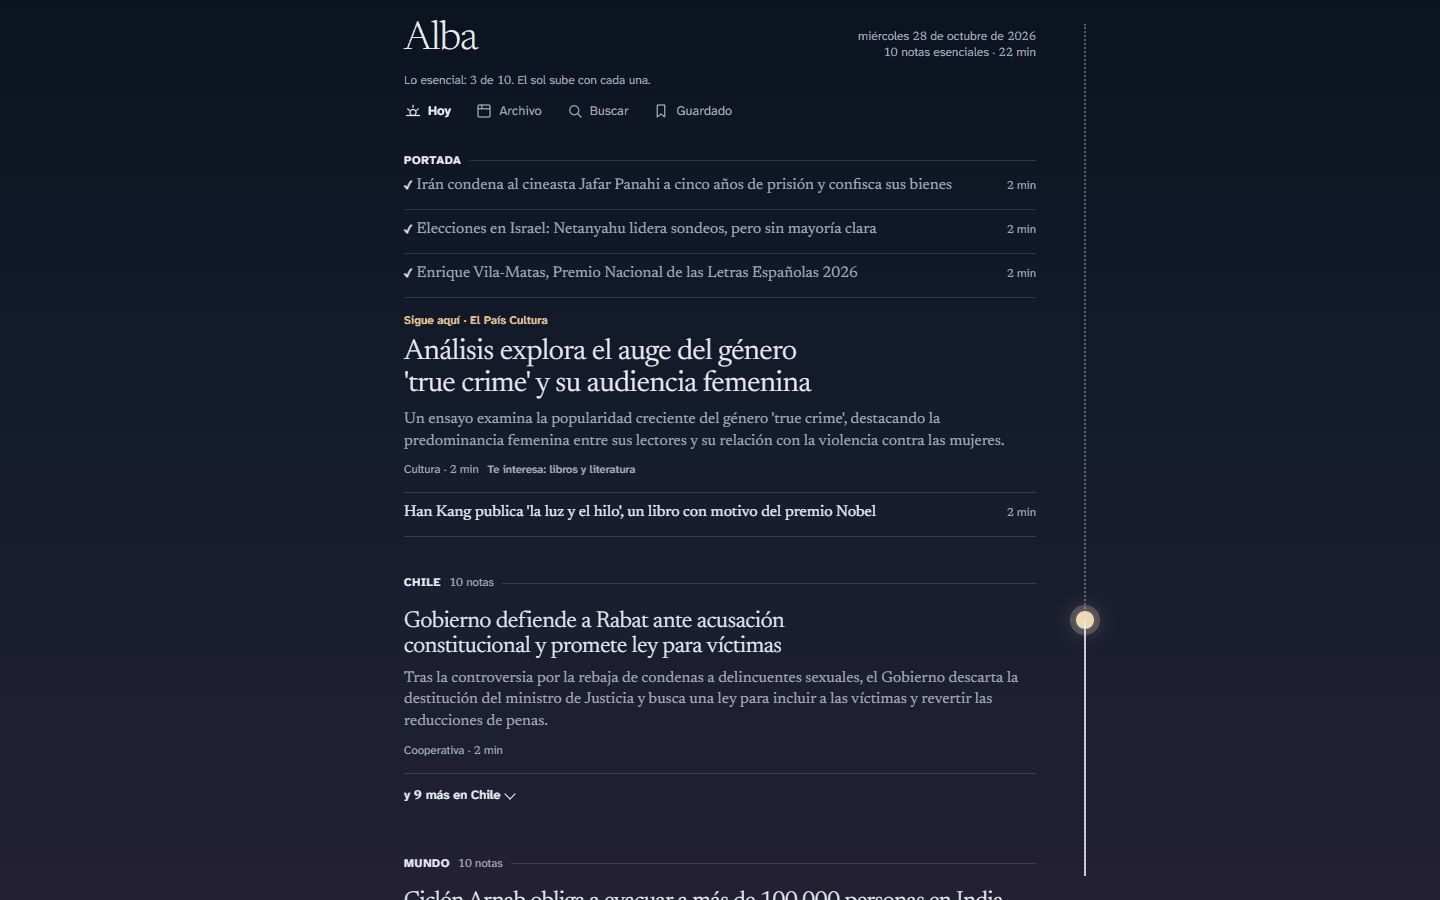
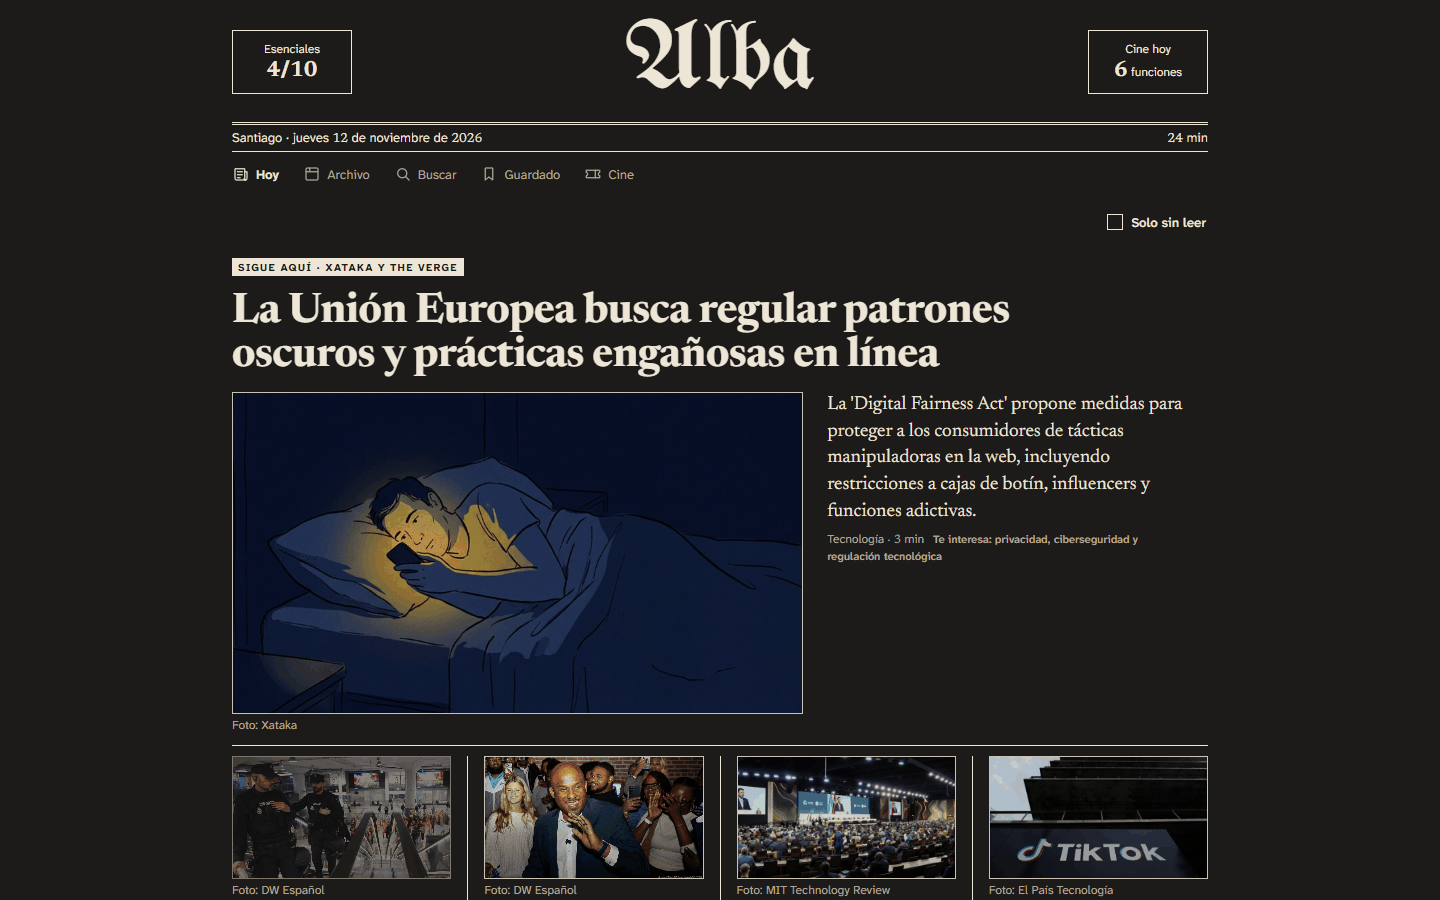
docs: the README shows the printed Diario, with the outlets' photos
New screenshots, banner and tour of the 12 November edition. The text
drops the sun of the old design, adds the paper look and the photos,
lists every outbound request (photos, cinemas), credits the nameplate's
font, and the roadmap loses the two items that shipped.

diff --git a/README.es.md b/README.es.md
@@ -36,12 +36,13 @@ Un diario personal. Defines tus fuentes RSS por sección; cada mañana Newspaper
 
 Los sitios de noticias y los lectores de feeds te entregan el mismo acontecimiento cinco veces, de cinco medios, en cinco pestañas. Newspaper los lee todos y escribe **una nota por acontecimiento**, con un breve «dónde difieren» cuando los medios no coinciden, para que la edición se pueda terminar: unas diez notas esenciales y veinticinco minutos, y después el resto si quieres.
 
-Todo corre en tu propio computador. Los modelos de lenguaje corren en [Ollama](https://ollama.com); no hay cuentas, ni servicios en la nube, ni seguimiento. Las únicas salidas a internet son tus feeds, los artículos originales y (si activas el aviso diario) el servicio de push del propio navegador, cifrado de extremo a extremo, o tu tema de ntfy, que ve el texto del aviso.
+Todo corre en tu propio computador. Los modelos de lenguaje corren en [Ollama](https://ollama.com); no hay cuentas, ni servicios en la nube, ni seguimiento. Las únicas salidas a internet son tus feeds, los artículos originales y sus fotos, las páginas de tus cines o encartelera.cl (si pones alguno) y (si activas el aviso diario) el servicio de push del propio navegador, cifrado de extremo a extremo, o tu tema de ntfy, que ve el texto del aviso.
 
 ## Qué hace
 
 - **Una nota por acontecimiento**: artículos agrupados entre medios e idiomas (embeddings multilingües), redactados en tu idioma con titular, bajada, cuerpo, «dónde difieren» y enlaces a cada original.
-- **Una edición que se termina**: un núcleo de unas diez notas (la portada y la primera de cada sección); un sol sube mientras lees, hasta «Pleno día».
+- **Una edición que se termina**: un núcleo de unas diez notas (la portada y la primera de cada sección); una oreja de la cabecera cuenta las que leíste y lleva a la siguiente, hasta «Pleno día».
+- **Aspecto de diario impreso**: cabecera gótica, antetítulos en sello, columnas con filetes y las fotos de los propios medios, copiadas en tu PC y guardadas 60 días (la página nunca carga nada de terceros); una edición nocturna que sigue el modo oscuro del dispositivo, y un filtro «Solo sin leer».
 - **Tres lectores, un solo estado**: un lector de terminal (Textual), uno web local, y esa misma web como app instalable en el teléfono a través de [Tailscale](https://tailscale.com). Las marcas de leída, favorita y guardada se comparten.
 - **Una mañana sin manos** (Windows): el PC despierta, escribe la edición, manda el aviso diario y vuelve a dormir cuando nadie lo está usando.
 - **Leer sin el PC**: cuando llega un aviso por Web Push, o cada vez que la abres con el PC despierto, la app del teléfono guarda una copia de solo lectura de la edición, para leer mientras el PC duerme.
@@ -67,7 +68,7 @@ Todo corre en tu propio computador. Los modelos de lenguaje corren en [Ollama](h
 
 <img alt="El lector de terminal" src="docs/images/tui-front.svg">
 
-<sub>La edición del 28 de octubre de 2026, escrita por `gemma3:12b` a partir de CIPER, Cooperativa, BBC Mundo, DW, El País, elDiario.es y otros. Las capturas siguen el tema claro u oscuro de GitHub, igual que la app.</sub>
+<sub>La edición del 12 de noviembre de 2026, escrita por `gemma3:12b` a partir de CIPER, Cooperativa, BBC Mundo, DW, El País, elDiario.es y otros. Las capturas siguen el tema claro u oscuro de GitHub, igual que la app.</sub>
 
 ## Cómo funciona
 
@@ -84,11 +85,11 @@ flowchart LR
 ```
 
 1. **Descarga** cada feed RSS/Atom/RDF activo de `newspaper.toml` (cada 30 minutos, para que los feeds cortos no pierdan artículos).
-2. **Extrae** el texto público del artículo con trafilatura; si falla, usa el extracto del RSS.
+2. **Extrae** el texto público del artículo con trafilatura (y su foto, la `og:image` de la página); si falla, usa el extracto del RSS.
 3. **Agrupa** los artículos sobre un mismo acontecimiento: embeddings multilingües (`bge-m3`) y un umbral de similitud coseno.
 4. **Elige** una portada (los acontecimientos con más medios y, después, los más recientes) y hasta N notas por sección. Con `[interests]`, el modelo local etiqueta cada acontecimiento: lo «no» va al final y nunca a portada; lo «sí» va primero entre los que tienen tantos medios como él.
 5. **Redacta** cada nota con `gemma3:12b`: titular, bajada, cuerpo y «dónde difieren» cuando hay dos medios o más. Una nota fallida o cortada se reintenta una vez.
-6. **Publica** la edición de forma atómica en SQLite. Si Ollama no responde, la edición falla y se sigue leyendo la anterior.
+6. **Publica** la edición de forma atómica en SQLite y después copia una foto por nota en el PC. Si Ollama no responde, la edición falla y se sigue leyendo la anterior.
 
 ### La mañana, en Windows
 
@@ -185,7 +186,7 @@ El lector web solo escucha en `127.0.0.1`. [Tailscale](https://tailscale.com) lo
 <details>
 <summary><b>El aviso diario, y leer sin el PC</b></summary>
 
-Al pie de Hoy, **Avisarme cuando salga …** suscribe ese navegador (la app instalada cuenta como uno aparte) a un aviso por Web Push. El aviso va cifrado de extremo a extremo y pasa por el servicio de push del navegador (el de Google, en Chrome): la primera salida del PC a internet que no es un feed. Su clave de firma, `vapid.pem`, está junto a la base. Una clave nueva (tras borrarla y correr `newspaper schedule install`) anula todas las suscripciones; cada dispositivo se suscribe otra vez en su próxima visita a Hoy.
+Al pie de Hoy, **Avisarme cuando salga …** suscribe ese navegador (la app instalada cuenta como uno aparte) a un aviso por Web Push. El aviso va cifrado de extremo a extremo y pasa por el servicio de push del navegador (el de Google, en Chrome). Su clave de firma, `vapid.pem`, está junto a la base. Una clave nueva (tras borrarla y correr `newspaper schedule install`) anula todas las suscripciones; cada dispositivo se suscribe otra vez en su próxima visita a Hoy.
 
 - **Cuándo sale:** sin `notice_time` (en `[general]`), cuando se publica cada edición. Con `notice_time = "07:30"` (`HH:MM` local, hasta las 22:59), la tarea `Newspaper aviso` despierta el PC a esa hora y lo manda, reintentando durante 9 minutos mientras vuelve la red; `generate` y `fetch` se lo dejan a la tarea hasta 5 minutos después de esa hora.
 - **Leer sin el PC:** cuando llega un aviso por Web Push (no uno por ntfy), o cada vez que la abres con el PC despierto, la app instalada guarda una copia de solo lectura de la última edición y de Guardado (todo o nada; `status` lo muestra como «guardada»). Mientras el PC duerme o no está al alcance, Hoy, sus notas, Pleno día y Guardado se abren desde esa copia, con la línea «Sin el PC: …» al pie de Hoy. El archivo y la búsqueda necesitan el PC. Los artículos originales se siguen abriendo, porque vienen de internet. Las aperturas, las marcas del aviso y las fuentes que abres quedan en una cola con su hora y se mandan cuando el PC vuelve a responder.
@@ -215,17 +216,16 @@ Por feed (`[[feeds]]`), reglas opcionales: expresiones regulares que se buscan (
 
 ## Hoja de ruta
 
-- Un aviso que sobreviva a los teléfonos con poca memoria (la copia para leer sin el PC).
 - Marcas de leída que vuelvan desde la copia sin conexión.
 - Un botón «No me interesa» que baje las historias parecidas.
-- Una nota por historia en desarrollo, e imágenes de los medios.
+- Una nota por historia en desarrollo.
 - Secciones por tema, y gestionar fuentes e intereses desde la web.
 - Más conectores (Hacker News, GitHub), otros motores de IA local, Linux y macOS, y un paquete en PyPI.
 
 ## Desarrollo
 
 ```powershell
-pytest                       # 340 tests; sin red ni Ollama
+pytest                       # 457 tests; sin red ni Ollama
 ruff check src tests
 ruff format --check src tests
 ```
@@ -234,4 +234,4 @@ El CI corre los tres en Windows con cada push a `master`.
 
 ## Tipografías
 
-Las fuentes tipográficas incluidas (Newsreader y Atkinson Hyperlegible Next) tienen la licencia SIL Open Font License; ver `src/newspaper/web/static/fonts/`.
+Las fuentes tipográficas incluidas (Newsreader, Atkinson Hyperlegible Next y, para la cabecera, UnifrakturMaguntia) tienen la licencia SIL Open Font License; ver `src/newspaper/web/static/fonts/`.

diff --git a/README.md b/README.md
@@ -36,12 +36,13 @@ A personal daily newspaper. You list your RSS sources by section; every morning 
 
 News sites and feed readers hand you the same event five times, from five outlets, in five tabs. Newspaper reads them all and writes **one note per event**, with a short "where they differ" when outlets disagree, so the edition can be finished: about ten essential notes and twenty-five minutes, then the rest if you want it.
 
-Everything runs on your own computer. The language models run in [Ollama](https://ollama.com); there are no accounts, no cloud services, and no tracking. The only outbound requests are your feeds, the original articles, and (if you turn on the daily notice) the browser's own push service, end-to-end encrypted, or your ntfy topic, which sees the notice's text.
+Everything runs on your own computer. The language models run in [Ollama](https://ollama.com); there are no accounts, no cloud services, and no tracking. The only outbound requests are your feeds, the original articles and their photos, your cinemas' pages or encartelera.cl (if you list any), and (if you turn on the daily notice) the browser's own push service, end-to-end encrypted, or your ntfy topic, which sees the notice's text.
 
 ## Features
 
 - **One note per event**: articles grouped across outlets and languages (multilingual embeddings), written in your language with headline, dek, body, "where they differ" and links to every original.
-- **A finishable edition**: a core of about ten notes (the front page plus the first of each section); a sun climbs as you read, up to "Pleno día" (full day).
+- **A finishable edition**: a core of about ten notes (the front page plus the first of each section); an ear of the masthead counts the ones you've read and leads to the next, up to "Pleno día" (full day).
+- **A printed-paper look**: a blackletter nameplate, stamp kickers, ruled columns and the outlets' own photos, copied to your PC and kept 60 days (the page never loads anything from third parties); a night edition that follows your device's dark mode, and an unread-only filter.
 - **Three readers, one state**: a terminal reader (Textual), a local web reader, and the same web as an installable app on your phone through [Tailscale](https://tailscale.com). Read, favorite and saved marks are shared.
 - **A hands-free morning** (Windows): the PC wakes up, writes the edition, sends the daily notice, and goes back to sleep when nobody is using it.
 - **Reading without the PC**: when a Web Push notice arrives, or whenever you open it with the PC awake, the phone app keeps a read-only copy of the edition, so you can read while the PC sleeps.
@@ -67,7 +68,7 @@ Everything runs on your own computer. The language models run in [Ollama](https:
 
 <img alt="The terminal reader" src="docs/images/tui-front.svg">
 
-<sub>The edition of 28 October 2026, as written by `gemma3:12b` from CIPER, Cooperativa, BBC Mundo, DW, El País, elDiario.es and others. The screenshots follow GitHub's light or dark theme, like the app does.</sub>
+<sub>The edition of 12 November 2026, as written by `gemma3:12b` from CIPER, Cooperativa, BBC Mundo, DW, El País, elDiario.es and others. The screenshots follow GitHub's light or dark theme, like the app does.</sub>
 
 ## How it works
 
@@ -84,11 +85,11 @@ flowchart LR
 ```
 
 1. **Fetch** every enabled RSS/Atom/RDF feed in `newspaper.toml` (every 30 minutes, so short feeds don't lose articles).
-2. **Extract** the public article text with trafilatura; fall back to the RSS excerpt.
+2. **Extract** the public article text with trafilatura (and its photo, the page's `og:image`); fall back to the RSS excerpt.
 3. **Group** articles about the same event: multilingual embeddings (`bge-m3`) and a cosine-similarity threshold.
 4. **Select** a front page (events covered by the most outlets, then the most recent) and up to N notes per section. With `[interests]`, the local model tags each event: "dislike" ones go last and never to the front page, "like" ones go first among events covered by as many outlets.
 5. **Write** each note with `gemma3:12b`: headline, dek, body, and "where sources differ" when there are two or more outlets. A failed or truncated note is retried once.
-6. **Publish** the edition atomically in SQLite. If Ollama is down the edition fails and the previous one stays readable.
+6. **Publish** the edition atomically in SQLite, then copy one photo per note to the PC. If Ollama is down the edition fails and the previous one stays readable.
 
 ### The morning, on Windows
 
@@ -185,7 +186,7 @@ The web reader only listens on `127.0.0.1`. [Tailscale](https://tailscale.com) p
 <details>
 <summary><b>The daily notice, and reading without the PC</b></summary>
 
-At the foot of Today, **Avisarme cuando salga …** subscribes that browser (the installed app counts as its own) to a Web Push notice. The notice is end-to-end encrypted and goes through the browser's push service (Google's, for Chrome): the PC's first outbound request that isn't a feed. Its signing key, `vapid.pem`, sits next to the database. A new key (after deleting it and running `newspaper schedule install`) voids every subscription; each device subscribes again on its next visit to Today.
+At the foot of Today, **Avisarme cuando salga …** subscribes that browser (the installed app counts as its own) to a Web Push notice. The notice is end-to-end encrypted and goes through the browser's push service (Google's, for Chrome). Its signing key, `vapid.pem`, sits next to the database. A new key (after deleting it and running `newspaper schedule install`) voids every subscription; each device subscribes again on its next visit to Today.
 
 - **When it goes out:** without `notice_time` (in `[general]`), when each edition is published. With `notice_time = "07:30"` (local `HH:MM`, up to 22:59), the `Newspaper aviso` task wakes the PC at that time and sends it, retrying for 9 minutes while the network comes back; `generate` and `fetch` leave it to the task until 5 minutes past that time.
 - **Reading without the PC:** when a Web Push notice arrives (not one by ntfy), or whenever you open it with the PC awake, the installed app saves a read-only copy of the latest edition and of Guardado (all or nothing; `status` shows it as «guardada»). While the PC sleeps or is out of reach, Today, its notes, Pleno día and Guardado open from that copy, with the line «Sin el PC: …» at the foot of Today. Archive and search need the PC. The original articles still open, since they come from the internet. Openings, the notice's marks and the sources you open are queued with their time and sent when the PC answers again.
@@ -215,17 +216,16 @@ Optional `[interests]` (see the commented example): `like` and `dislike` lists o
 
 ## Roadmap
 
-- A notice that survives phones short on memory (the copy for reading without the PC).
 - Read marks that sync back from the offline copy.
 - A "Not interested" button that lowers similar stories.
-- One note per developing story, and images from the outlets.
+- One note per developing story.
 - Sections by topic, and managing sources and interests from the web.
 - More connectors (Hacker News, GitHub), other local LLM backends, Linux and macOS, and a PyPI package.
 
 ## Development
 
 ```powershell
-pytest                       # 340 tests; no network or Ollama needed
+pytest                       # 457 tests; no network or Ollama needed
 ruff check src tests
 ruff format --check src tests
 ```
@@ -234,4 +234,4 @@ CI runs the same three on Windows for every push to `master`.
 
 ## Fonts
 
-The bundled fonts (Newsreader and Atkinson Hyperlegible Next) are under the SIL Open Font License; see `src/newspaper/web/static/fonts/`.
+The bundled fonts (Newsreader, Atkinson Hyperlegible Next and, for the nameplate, UnifrakturMaguntia) are under the SIL Open Font License; see `src/newspaper/web/static/fonts/`.
